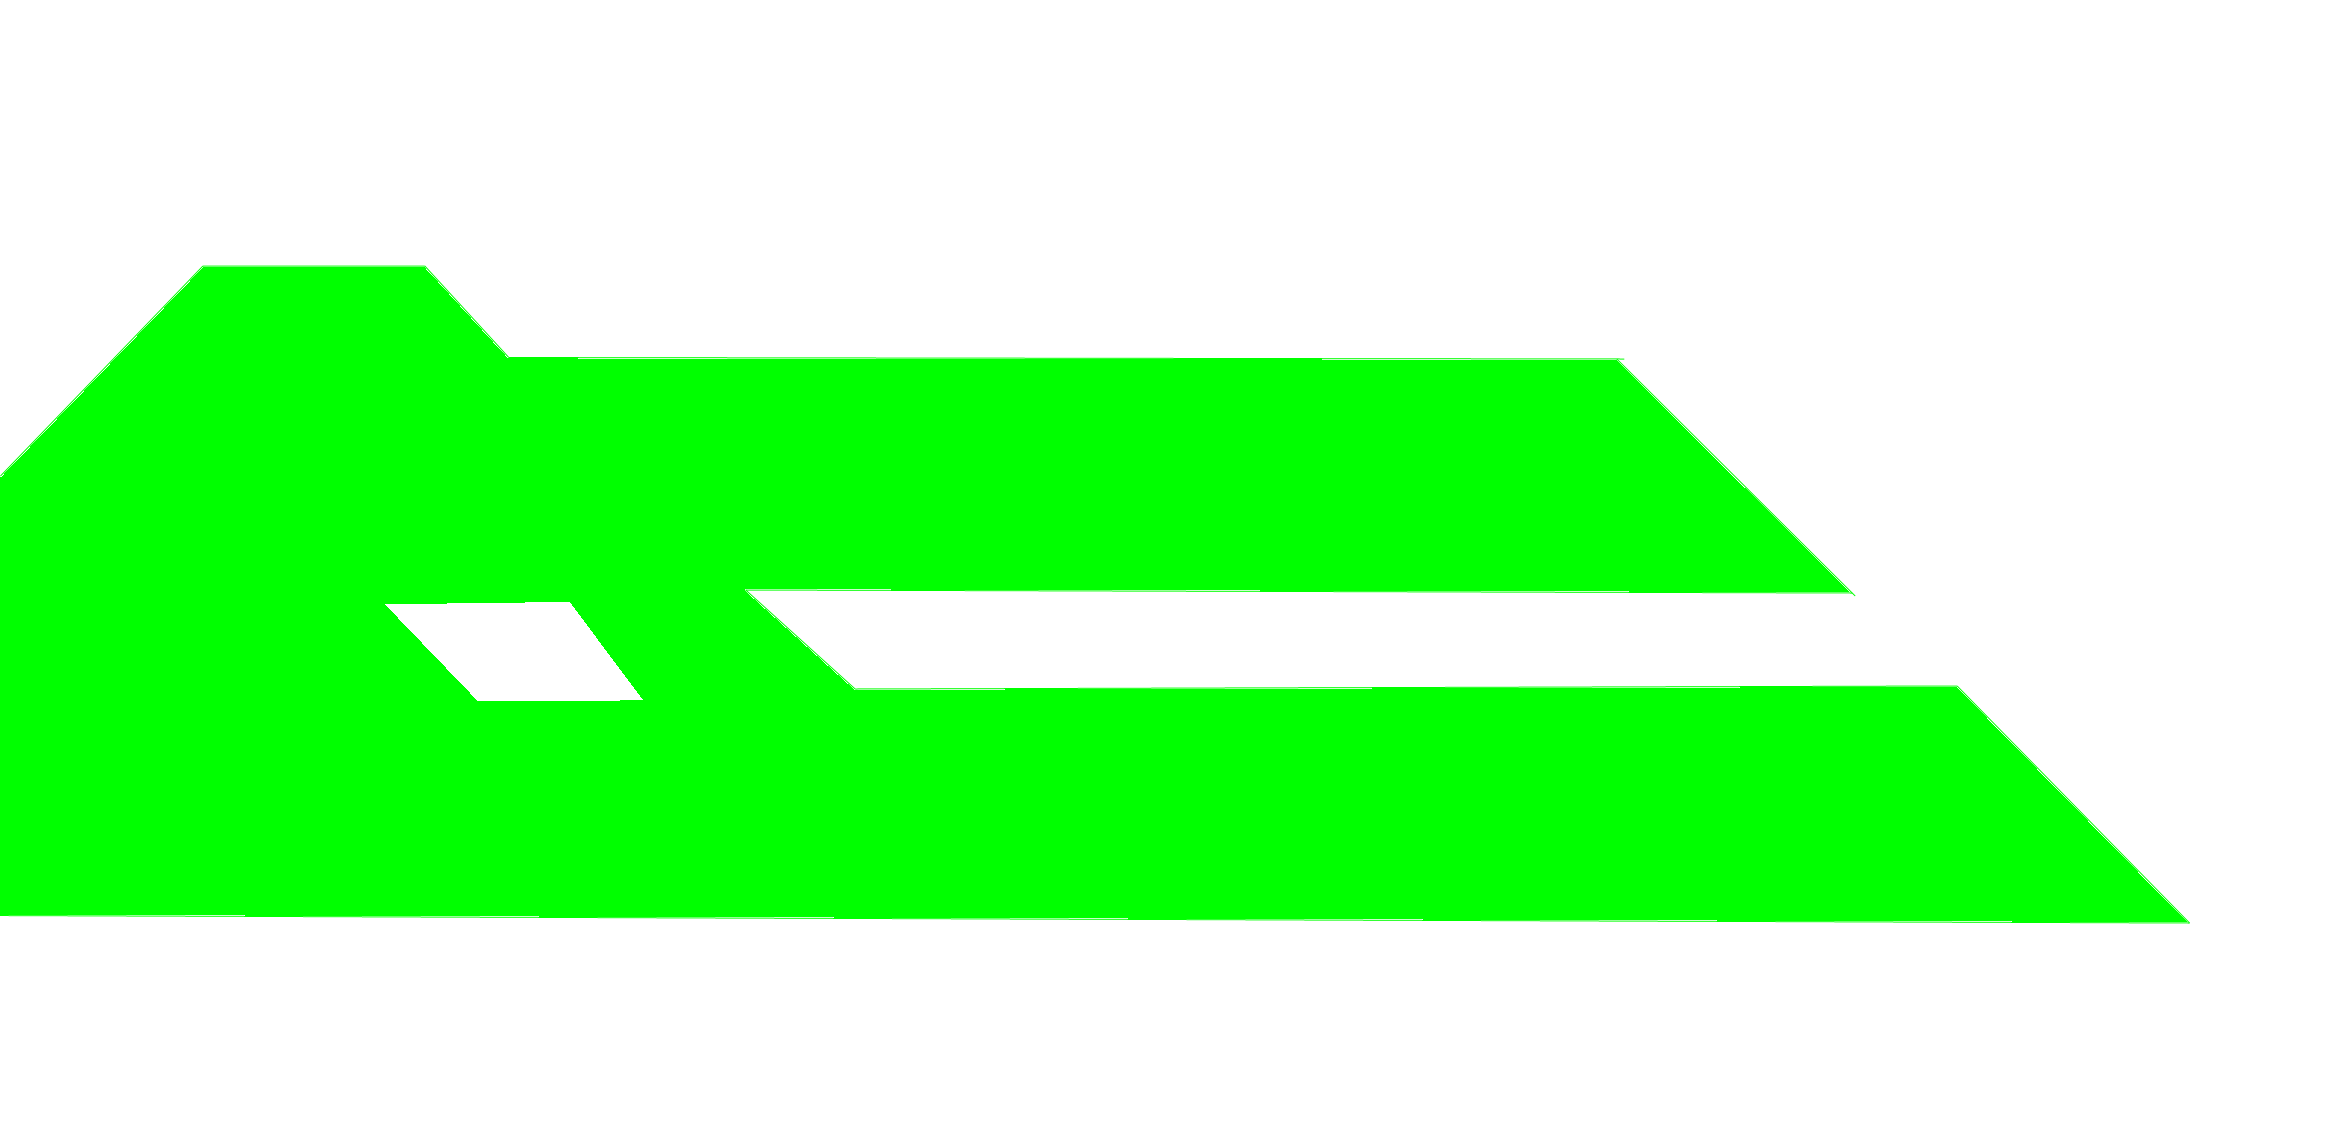
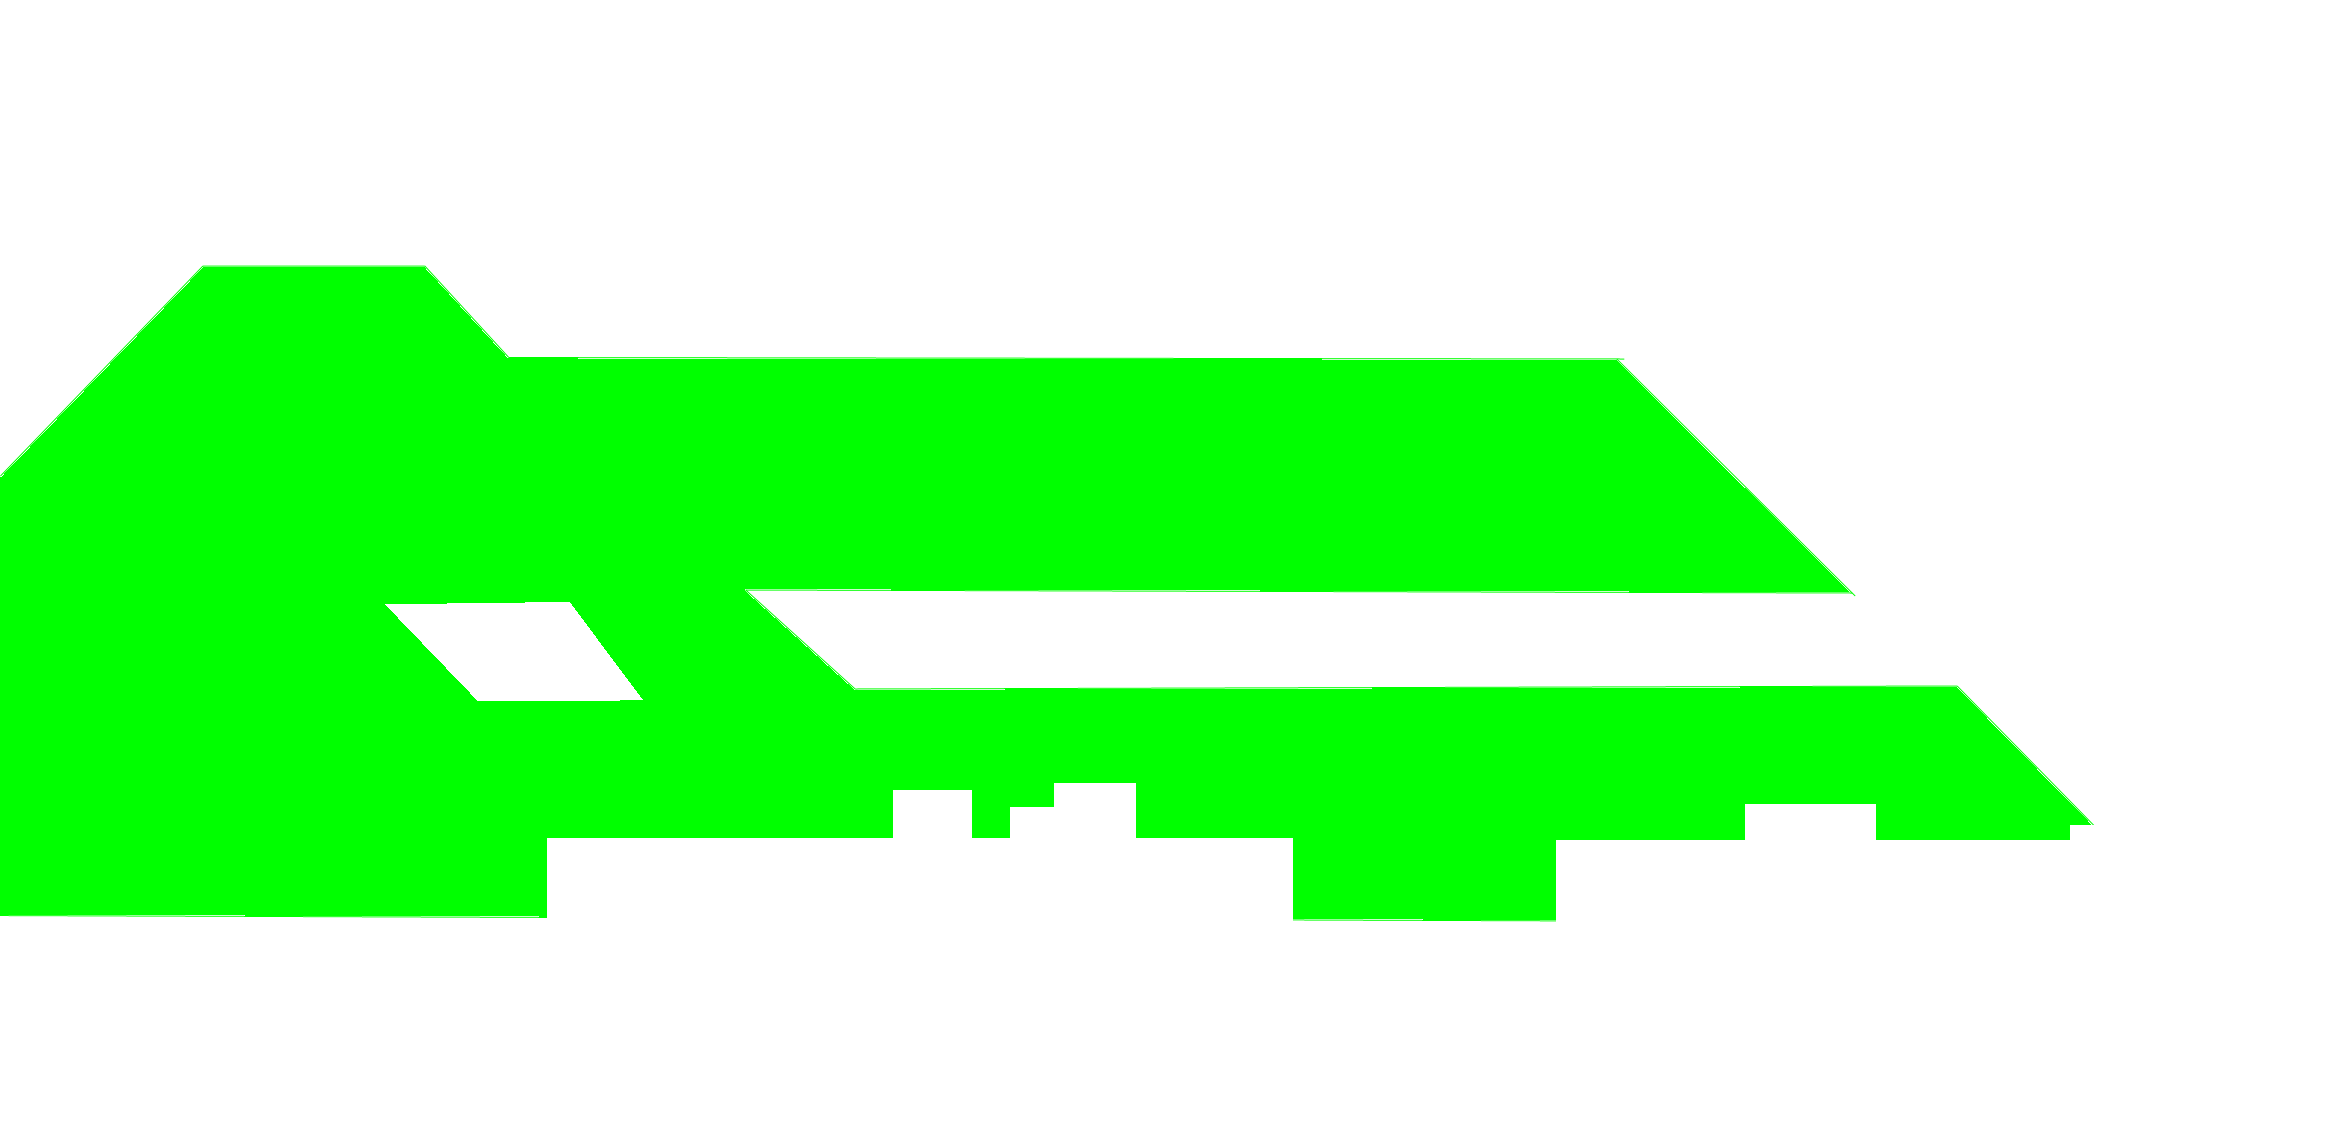
민경운 : OceanLevel 오브젝트 배치

Changed region(s): [[0.2163, 0.6844, 0.5562, 0.84], [0.6489, 0.7156, 0.9579, 0.84]]

diff --git a/Dx2dGameMKU/GameEngineContents/OceanLevel.cpp b/Dx2dGameMKU/GameEngineContents/OceanLevel.cpp
@@ -11,9 +11,9 @@
 const std::vector<std::pair<std::string_view, float4>> OceanLevel::BGInfoes =
 {
 	{"OceanBG.png", float4{0.f, 0.f, 500.f}},
-	{"OceanBox.png", float4{-651.f, -12.f, -139.f}},
-	//{"OceanBosRight.png", float4{-651.f, -12.f, -139.f}},
-	//{"OceanMarket.png", float4{0.f, 0.f, 500.f}},
+	{"OceanBoxBack.png", float4{-651.f, -12.f, -41.f}},
+	{"OceanBoxFront.png", float4{-651.f, -12.f, -125.f}},
+	{"OceanMarket.png", float4{-77.f, -322.f, -462.f}},
 };
 
 const std::string_view OceanLevel::CollisionImageName = "OceanColBG.png";
@@ -61,7 +61,7 @@ void OceanLevel::Start()
 
 	CreateBackGrounds();
 	CreateDoors();
-	//CreateEnemies();
+	CreateEnemies();
 	FieldLevelBase::CreateNpcs(NpcInfoes);
 
 	FieldLevelBase::SetPlayerStartPosition(float4::Zero);

diff --git a/Dx2dGameMKU/GameEngineContents/RCG_GameCore.cpp b/Dx2dGameMKU/GameEngineContents/RCG_GameCore.cpp
@@ -29,7 +29,7 @@ void RCG_GameCore::GameStart()
 	ContentsResourceInit();
 
 	KeyMgr::CreateKey();
-	LevelMgr::CreateLevel(LevelNames::SchoolEntryLevel);
+	LevelMgr::CreateLevel(LevelNames::OceanLevel);
 }
 
 
